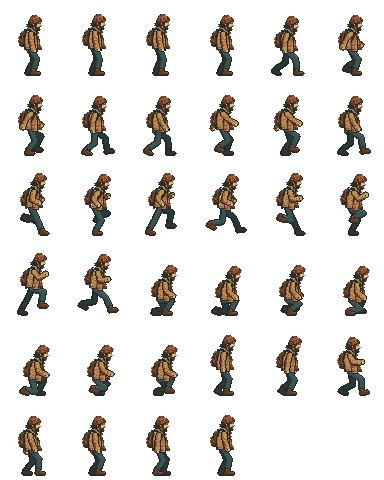
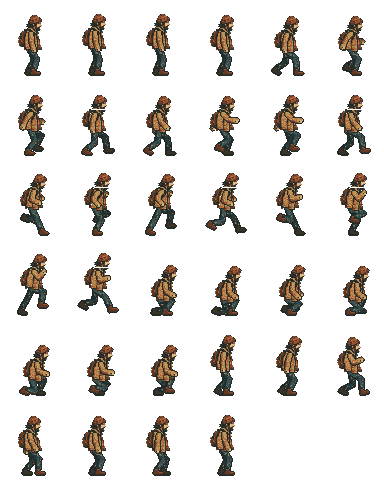
Traveller rig: jeans texture and motion polish
- Jeans sample the original denim swatch (new parts layer), mapped along
  the leg; far leg one tone darker.
- Follow-through: head and pack settle one cel after the body bob.
- Forward-swinging arm bends more at the elbow; walk swing foot lifts 5 px.

Claude-Session: https://claude.ai/code/session_011TUYBqjVM2VVVfiUZxsnnZ

diff --git a/traveller-art.js b/traveller-art.js
@@ -2,7 +2,7 @@
 (function(root){'use strict';
  const TAU=Math.PI*2,anchor=Object.freeze([32,76]);
  // Baked by scripts/bake-traveller.cjs: [id, rect, near-hand] per 64×80 cel.
- const baked=/*BAKED*/[["idle-0",[0,0,64,80],[34,50]],["idle-1",[64,0,64,80],[34,49]],["idle-2",[128,0,64,80],[34,49]],["idle-3",[192,0,64,80],[34,50]],["walk-0",[256,0,64,80],[29,51]],["walk-1",[320,0,64,80],[23,47]],["walk-2",[0,80,64,80],[23,47]],["walk-3",[64,80,64,80],[29,51]],["walk-4",[128,80,64,80],[38,49]],["walk-5",[192,80,64,80],[43,44]],["walk-6",[256,80,64,80],[43,44]],["walk-7",[320,80,64,80],[38,49]],["run-0",[0,160,64,80],[39,43]],["run-1",[64,160,64,80],[34,45]],["run-2",[128,160,64,80],[34,44]],["run-3",[192,160,64,80],[39,44]],["run-4",[256,160,64,80],[44,38]],["run-5",[320,160,64,80],[46,35]],["run-6",[0,240,64,80],[46,34]],["run-7",[64,240,64,80],[44,39]],["crouch-idle",[128,240,64,80],[45,56]],["crouch-0",[192,240,64,80],[44,58]],["crouch-1",[256,240,64,80],[43,57]],["crouch-2",[320,240,64,80],[44,58]],["crouch-3",[0,320,64,80],[46,55]],["crouch-4",[64,320,64,80],[47,54]],["crouch-5",[128,320,64,80],[46,55]],["start-0",[192,320,64,80],[31,50]],["start-1",[256,320,64,80],[31,51]],["stop-brake",[320,320,64,80],[42,42]],["stop-0",[0,400,64,80],[35,50]],["stop-1",[64,400,64,80],[34,51]],["turn-0",[128,400,64,80],[29,51]],["turn-1",[192,400,64,80],[36,49]]]/*END*/;
+ const baked=/*BAKED*/[["idle-0",[0,0,64,80],[34,50]],["idle-1",[64,0,64,80],[34,49]],["idle-2",[128,0,64,80],[34,49]],["idle-3",[192,0,64,80],[34,50]],["walk-0",[256,0,64,80],[29,51]],["walk-1",[320,0,64,80],[23,47]],["walk-2",[0,80,64,80],[23,47]],["walk-3",[64,80,64,80],[29,51]],["walk-4",[128,80,64,80],[39,48]],["walk-5",[192,80,64,80],[44,41]],["walk-6",[256,80,64,80],[44,41]],["walk-7",[320,80,64,80],[39,48]],["run-0",[0,160,64,80],[39,43]],["run-1",[64,160,64,80],[34,45]],["run-2",[128,160,64,80],[34,44]],["run-3",[192,160,64,80],[39,44]],["run-4",[256,160,64,80],[44,37]],["run-5",[320,160,64,80],[44,33]],["run-6",[0,240,64,80],[44,32]],["run-7",[64,240,64,80],[44,38]],["crouch-idle",[128,240,64,80],[45,55]],["crouch-0",[192,240,64,80],[44,57]],["crouch-1",[256,240,64,80],[43,57]],["crouch-2",[320,240,64,80],[44,57]],["crouch-3",[0,320,64,80],[47,54]],["crouch-4",[64,320,64,80],[48,53]],["crouch-5",[128,320,64,80],[47,54]],["start-0",[192,320,64,80],[31,50]],["start-1",[256,320,64,80],[31,51]],["stop-brake",[320,320,64,80],[41,40]],["stop-0",[0,400,64,80],[36,49]],["stop-1",[64,400,64,80],[35,50]],["turn-0",[128,400,64,80],[29,51]],["turn-1",[192,400,64,80],[37,49]]]/*END*/;
  const frames=Object.freeze(baked.map(([id,rect,hand],i)=>Object.freeze({index:i,id,rect:Object.freeze(rect),hand:Object.freeze(hand),grip:Object.freeze([hand[0]-anchor[0],hand[1]-anchor[1]])})));
  const byId=Object.fromEntries(frames.map(f=>[f.id,f.index])),at=(id,fallback='idle-0')=>byId[id]??byId[fallback]??0;
  const CYCLE=Object.freeze({walk:8,run:8,crouch:6}),IDLE_LOOP=2.4;
